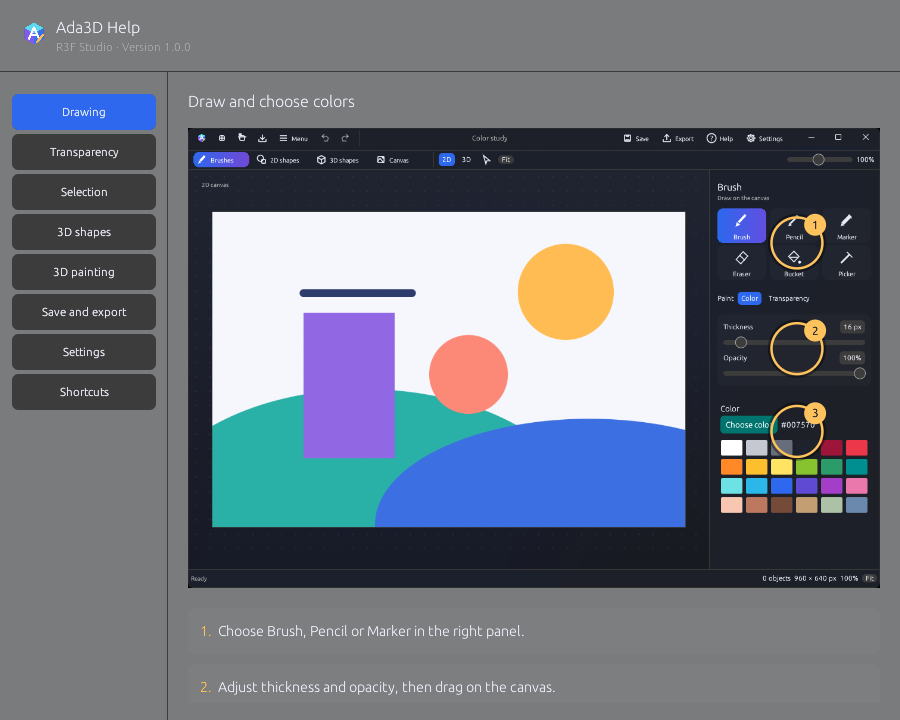
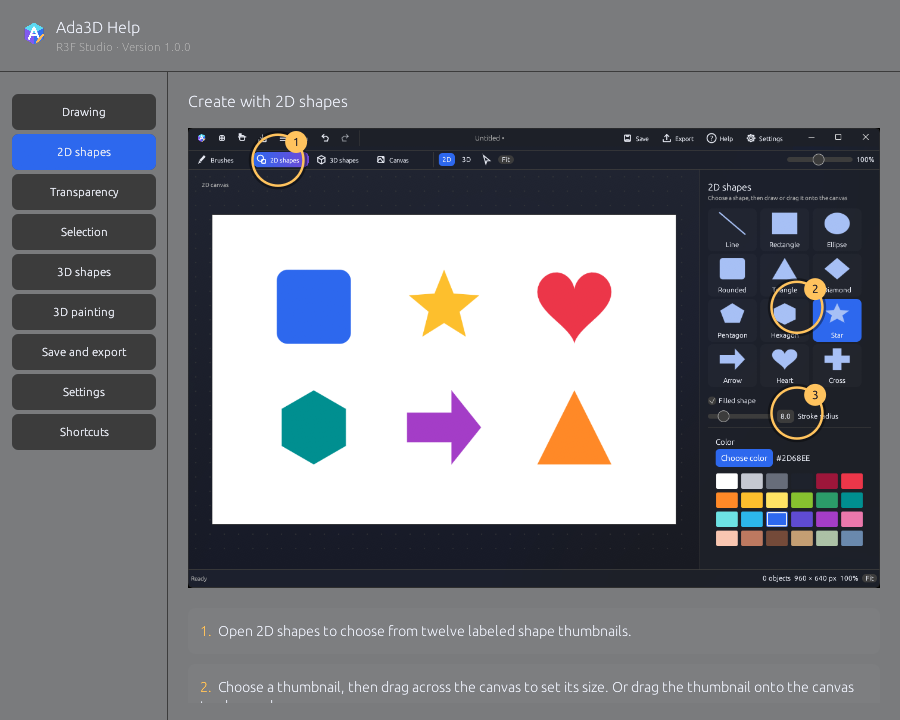
Refresh illustrated Help and build installers on main pushes

diff --git a/src/ui/help/topics.rs b/src/ui/help/topics.rs
@@ -6,13 +6,13 @@ pub(super) struct Topic {
 }
 pub(super) const NAMES: [&str; 9] = [
     "Drawing",
+    "2D shapes",
     "Transparency",
     "Selection",
     "3D shapes",
     "3D painting",
     "Save and export",
     "Settings",
-    "2D shapes",
     "Shortcuts",
 ];
 pub(super) const TOPICS: [Topic; 8] = [
@@ -25,6 +25,16 @@ pub(super) const TOPICS: [Topic; 8] = [
             "Click Choose color, or use Picker to sample a canvas pixel. The sampler in the color dialog returns to that dialog with the chosen color.",
         ],
         points: &[[0.88, 0.25], [0.88, 0.48], [0.88, 0.66]],
+    },
+    Topic {
+        title: "Create with 2D shapes",
+        image: 7,
+        steps: &[
+            "Open 2D shapes to choose from twelve labeled shape thumbnails.",
+            "Choose a thumbnail, then drag across the canvas to set its size. Or drag the thumbnail onto the canvas to place a shape.",
+            "Choose a color, stroke radius and Filled shape before drawing. Undo removes a placement; Select lets you move, resize or rotate its pixels.",
+        ],
+        points: &[[0.13, 0.07], [0.88, 0.39], [0.88, 0.62]],
     },
     Topic {
         title: "Paint transparency",
@@ -85,15 +95,5 @@ pub(super) const TOPICS: [Topic; 8] = [
             "About includes the version, R3F Studio, license and software updates. Check for updates here or when the app starts.",
         ],
         points: &[[0.10, 0.247], [0.10, 0.32], [0.10, 0.388]],
-    },
-    Topic {
-        title: "Create with 2D shapes",
-        image: 7,
-        steps: &[
-            "Open 2D shapes to see twelve labeled shape thumbnails. Brushes keeps the drawing tools separate.",
-            "Choose a thumbnail, then drag across the canvas to set its size. Or drag the thumbnail onto the canvas to place a shape.",
-            "Choose a color, stroke radius and Filled shape before drawing. Undo removes a placement; Select lets you move, resize or rotate its pixels.",
-        ],
-        points: &[[0.19, 0.07], [0.88, 0.39], [0.88, 0.62]],
     },
 ];

diff --git a/docs/platforms.md b/docs/platforms.md
@@ -30,7 +30,7 @@ After extracting a Linux release, run `sh install.sh` to install Ada3D and its l
 
 ## GitHub releases
 
-Push a tag containing `v` followed by the package version in `Cargo.toml`, to run **Package Ada3D**. It builds Windows x86-64, Linux x86-64/ARM64, and macOS Intel/Apple Silicon packages, then attaches the installers, portable ZIPs and their SHA-256 checksums to the release. Manual workflow runs produce downloadable Actions artifacts without publishing a release.
+Push a tag containing `v` followed by the package version in `Cargo.toml`, to run **Package Ada3D**. It builds Windows x86-64, Linux x86-64/ARM64, and macOS Intel/Apple Silicon packages, then attaches the installers, portable ZIPs and their SHA-256 checksums to the release. Pushes to main and manual workflow runs produce downloadable Actions artifacts without publishing a release.
 
 Updates use [R3FStudio/Ada3D](https://github.com/R3FStudio/Ada3D) by default. Release workflows set `ADA3D_UPDATE_REPOSITORY` from `github.repository`; forks can override it when building.
 
